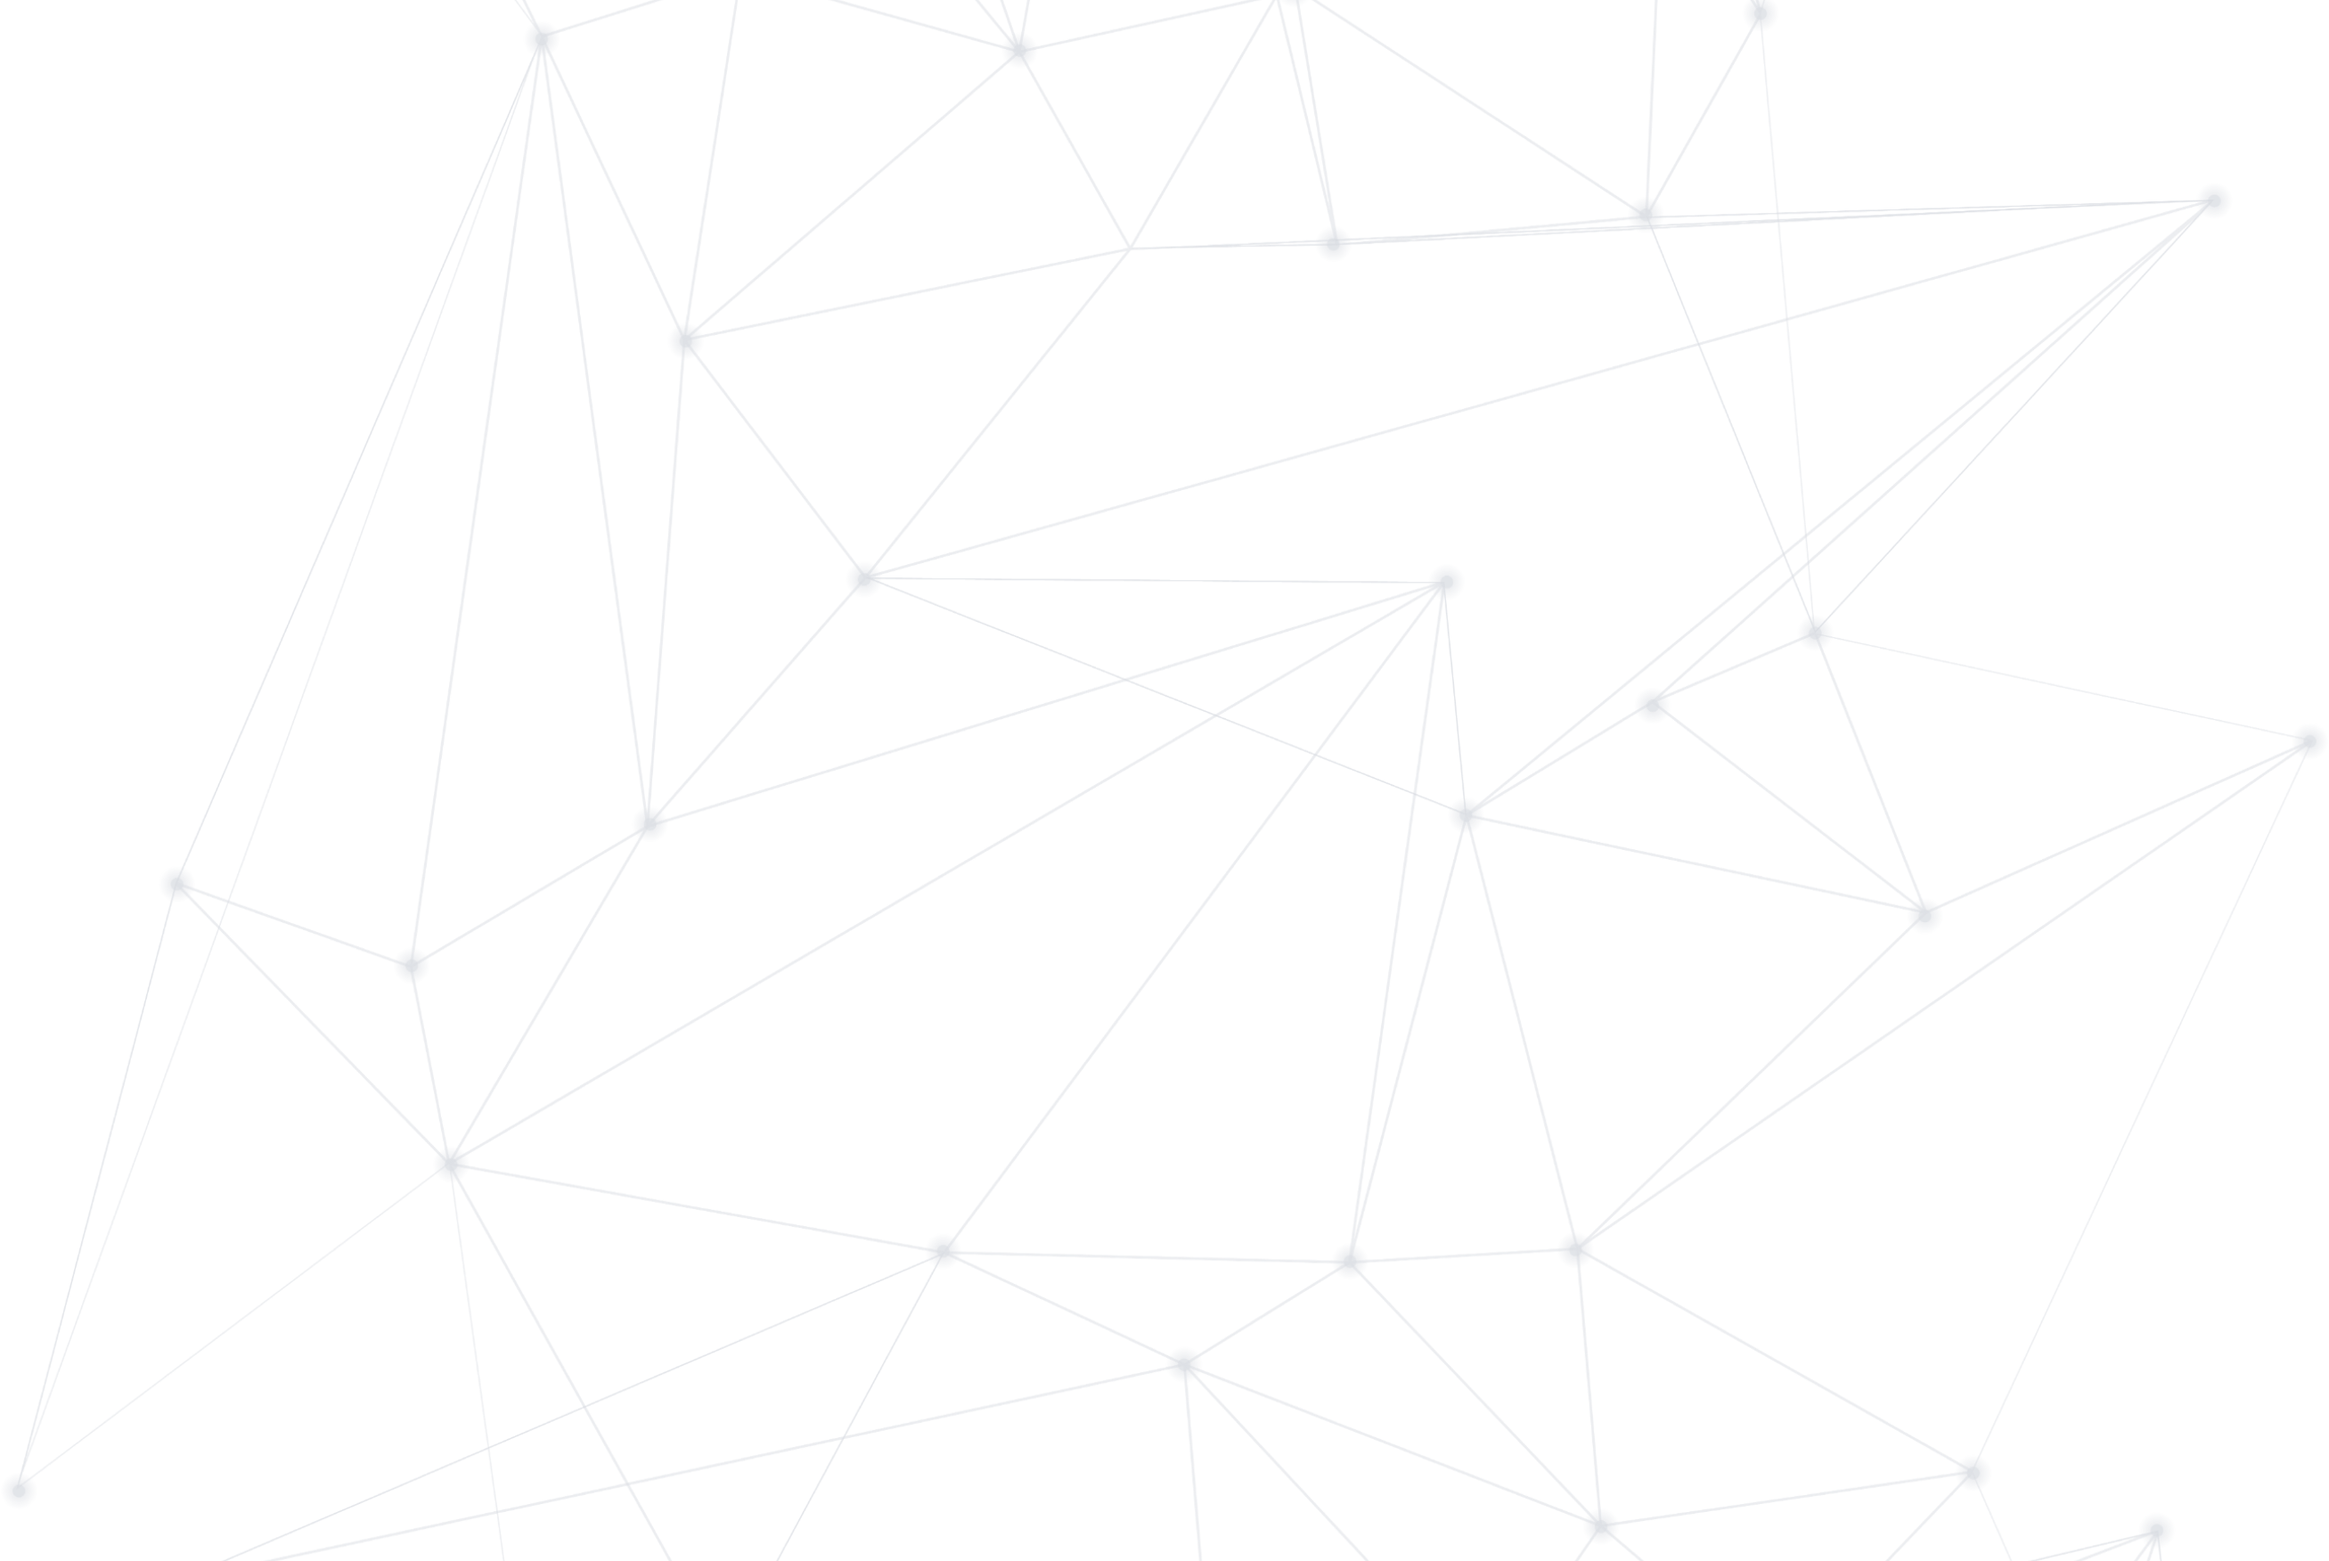
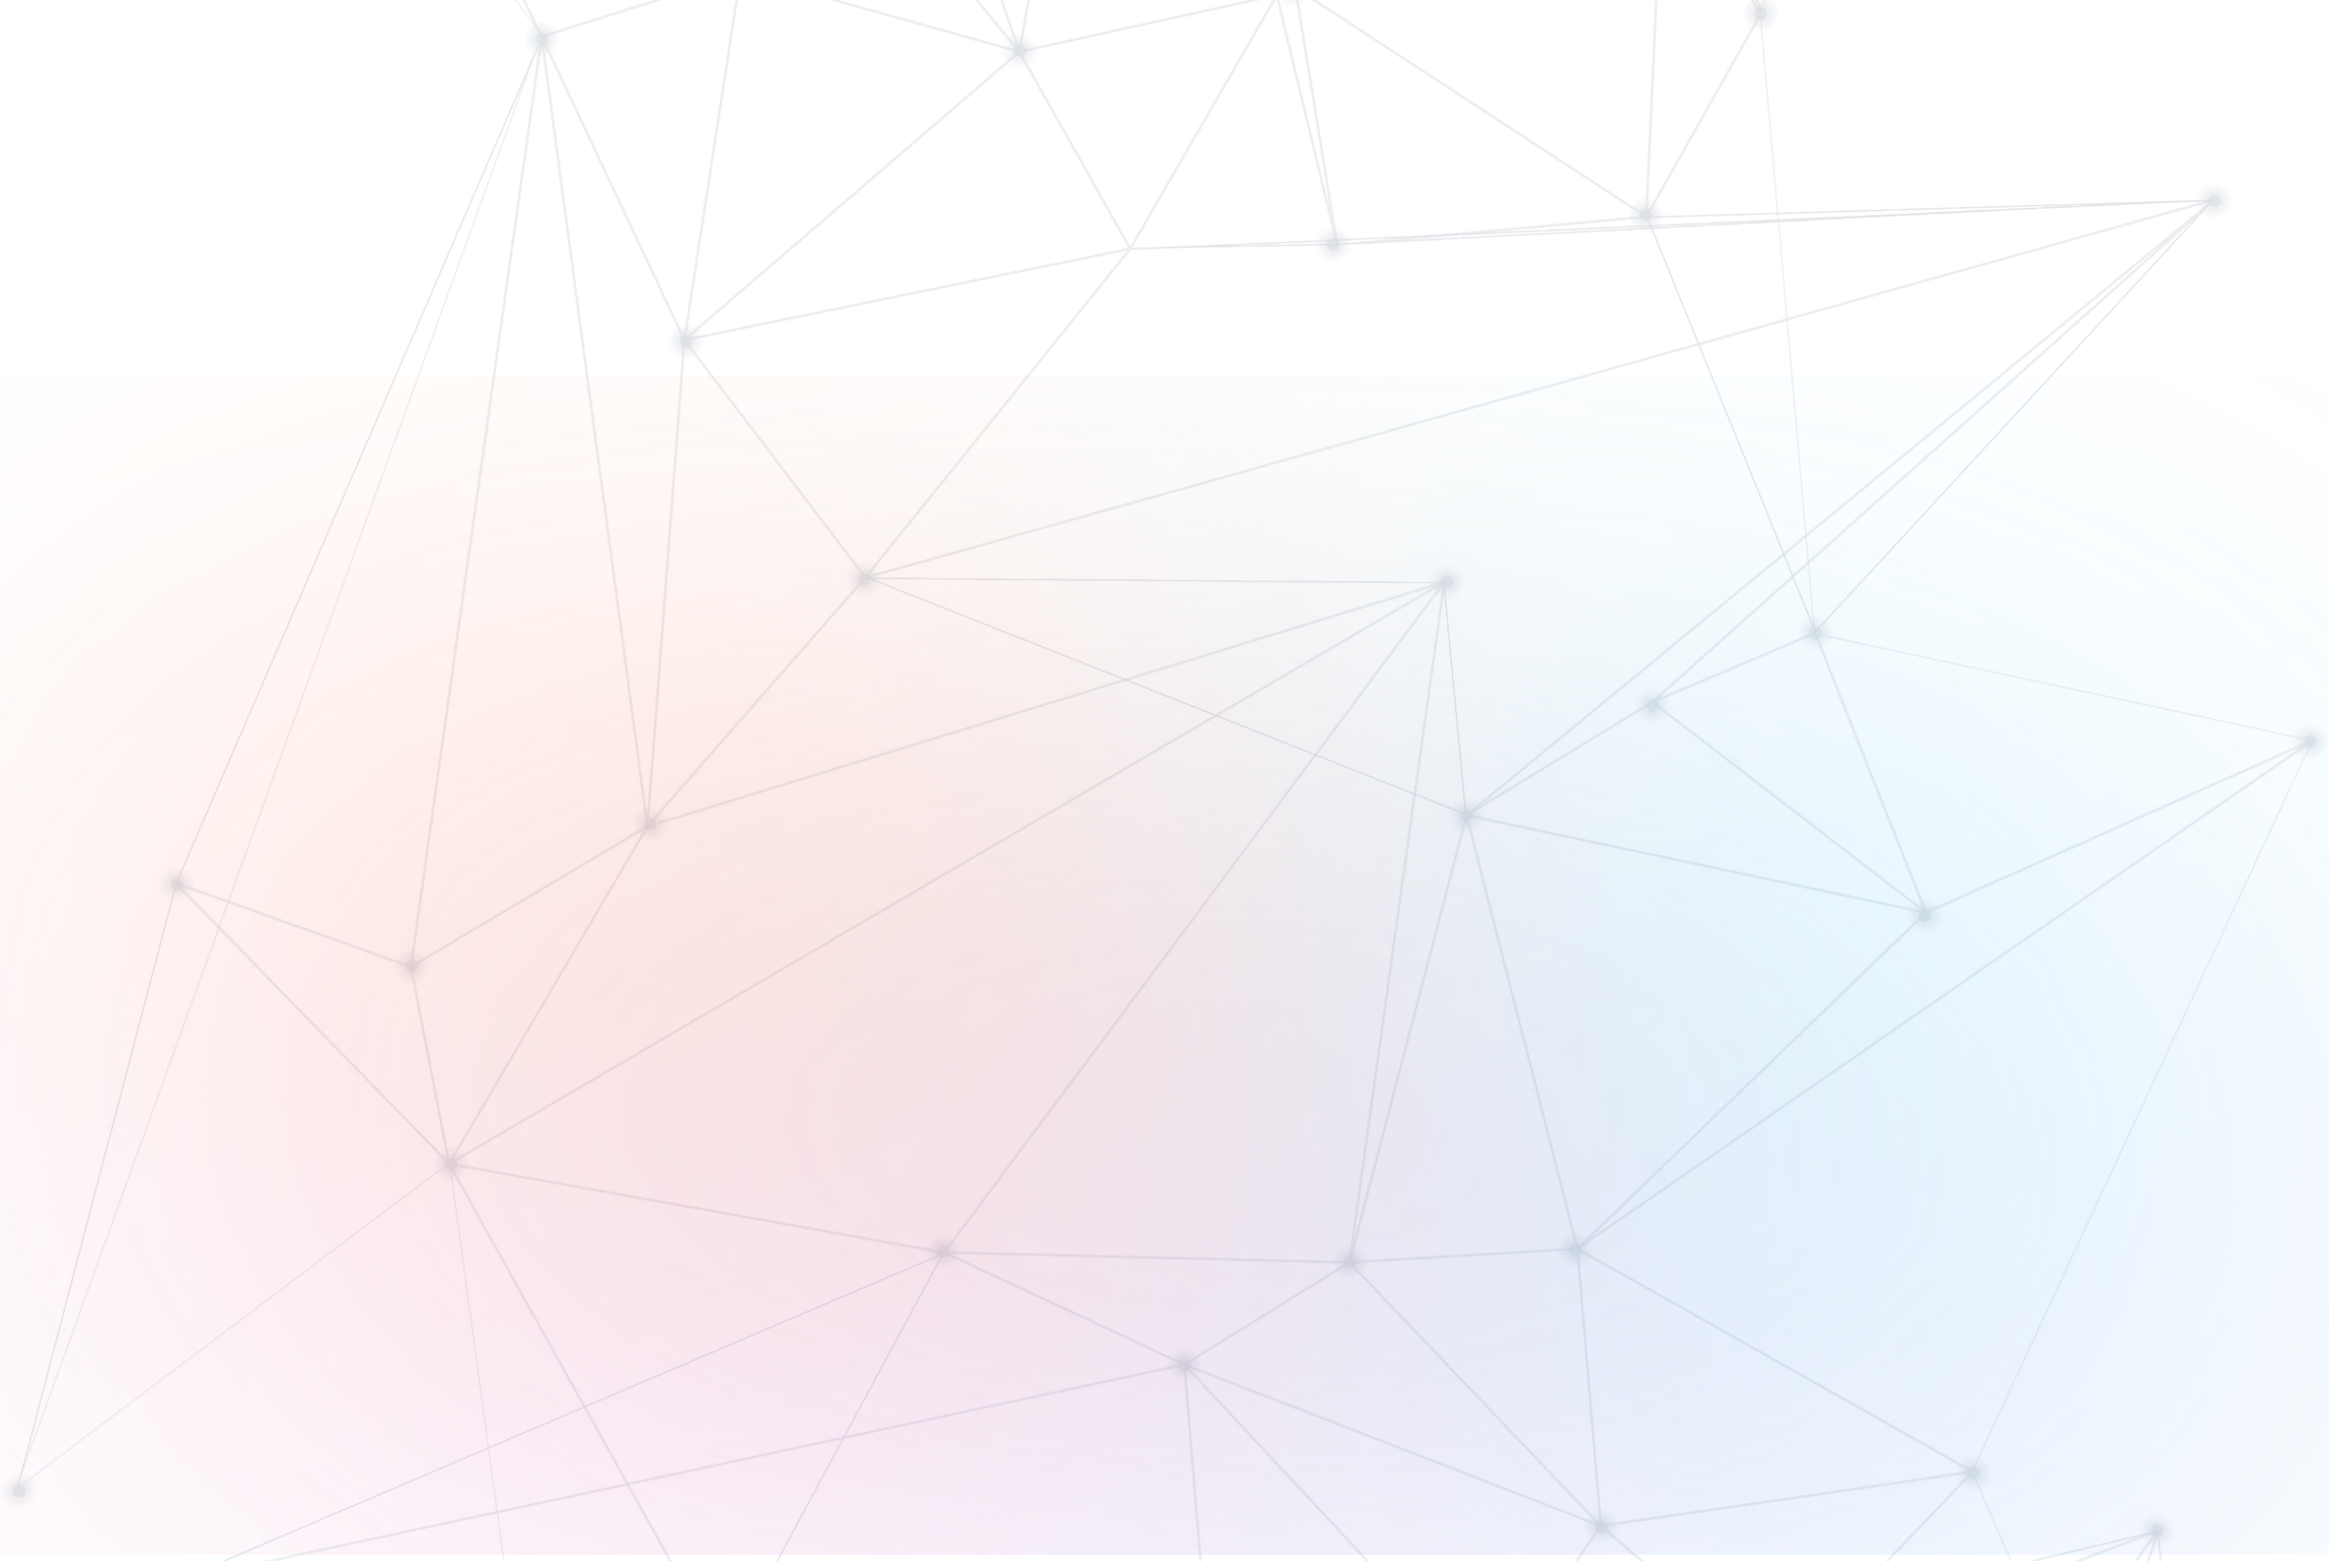
faq页光晕、滑动更新；社区页更新

Changed region(s): [[0.1859, 0.4932, 0.5888, 0.8938], [0.6197, 0.5548, 0.8676, 0.8938]]

diff --git a/pages/faq.js b/pages/faq.js
@@ -22,12 +22,10 @@ export default class Faq extends React.Component {
         <div className="container">
            <Header></Header>
             <div className="content">
-                <div className='content-fq'>
-                    <div className='coon-1204'>
+                <div className='content-fq w-1200'>
+                    <div className='list-content'>
                         <ul className='ul'>
-                            <li>
-                                <div className='gap'></div>
-                            </li>
+                            <li></li>
                             <li>
                                 <div className='flex-c flex-j'>
                                     <div className='jt flex-c flex-j'>
@@ -83,18 +81,21 @@ export default class Faq extends React.Component {
                         </ul>
                     </div>
                 </div>
-                <div className='content-bg'></div>
-                <div className="foot">
-                    <div className='coon-1204 flex-b'>
-                        <div>Made by Inferer Labs</div>
-                        <div>Thanks to Platon</div>
-                    </div>
+            </div>
+            <div className="foot">
+                <div className='w-1200 flex-b'>
+                    <div className='pl-40'>Made by Inferer Labs</div>
+                    <div>Thanks to Platon</div>
                 </div>
-
             </div>
             <style jsx>{`
             .flex-s {
                 display: flex;
+            }
+            .w-1200{
+                width:1200px;
+                margin: 0 auto;
+
             }
             .flex-b {
                 display: flex;
@@ -158,35 +159,22 @@ export default class Faq extends React.Component {
             
               }
               .content{
-                padding-top:152px;
                 width: 100%;
                 background: url(/bg-center.png) repeat;
                 background-size: 100%;
+                height: calc(100vh - 66px);;
+                overflow-y: auto;
             }
-
-            .gap {
-                background-color: transparent; 
-                width: 1204px;
-                height: 80px;
-              }
-
-            .coon-1204{
+            .list-content{
                 position: relative;
-                width: 1204px;
-                height: 100%;
-                margin: 0 auto;
+                
+                
             }
-            // .content-fq{
-            //     width: 100%;
-            //     height: 972px;
-            //     background: url(/content-yun.png) no-repeat;
-            //     background-size: 100%;
-            // }
             .content-fq{
-                width: 100%;
-                height: 100%;
-                background: url(/content-yun.png) no-repeat;
-                background-size: 100%;
+                // width: 100%;
+                // height: 972px;
+                // background: url(/content-bg-gy.jpg) no-repeat;
+                // background-size: 100%;
             }
             .jt{
                 width: 320px;
@@ -202,8 +190,8 @@ export default class Faq extends React.Component {
                 background-size: 100%;
             }
             .list{
-                margin-top: 24px;
-                padding: 22px 27px;
+                margin-top: 22px;
+                padding: 25px 17px;
                 background: #25243A;
                 box-shadow: 0px 0px 6px rgba(17, 14, 45, 0.5);
                 border-radius: 10px;
@@ -219,7 +207,6 @@ export default class Faq extends React.Component {
             }
             .item2{
                 margin-top:12px;
-                margin-left:1.5em;
                 font-family: 'DIN';
                 font-style: normal;
                 font-weight: 700;
@@ -227,7 +214,6 @@ export default class Faq extends React.Component {
                 line-height: 21px;
                 letter-spacing: 0.02em;
                 color: #DADADA;
-                text-indent:-1.4em;
             }
             .content-bg{
                 width: 100%;
@@ -235,8 +221,9 @@ export default class Faq extends React.Component {
                 background: url(/conten-foot.png) no-repeat;
                 background-size: 100%;
             }
-
             .foot{
+                position: relative;
+                width:100%;
                 background: #17152A;
                 height: 66px;
                 line-height: 66px;
@@ -245,6 +232,9 @@ export default class Faq extends React.Component {
                 font-weight: 500;
                 font-size: 18px;
                 color: #ffffff;
+            }
+            .pl-40{
+                padding-left:40px
             }
             `}</style>
             <style global jsx>{`

diff --git a/pages/community.js b/pages/community.js
@@ -31,7 +31,6 @@ export default class Community extends React.Component {
                         </div>
                     </div>
                     <div className='community-2 '>
-                    <div className='right-bg'></div>
                     <div className='coon-1204 flex-b'>
                     <div className='left flex-l'>
                         <span className='community-2-name'>Owned by the community</span>
@@ -44,12 +43,15 @@ export default class Community extends React.Component {
                         process, which improves inferer all the time.
                         </span>
                     </div>
-                            <div className='right'></div>
+                            <div className='right'>
+                                <img className='right-img' src='/community-right.png' />
+                                <div className='right-bg'></div>
+                            </div>
                     </div>
                         </div>
                         <div className='community-3'>
-                            <div className='community-3-bg'></div>
                             <div className='coon-1204'>
+                                <div className='community-3-bg'></div>
                                 <div className='community-join flex-l flex-j'>
                                     <div className='community-title flex-l'>
                                         <span className='title-m'>Join the community</span>
@@ -77,8 +79,8 @@ export default class Community extends React.Component {
                                         </ul>
                                     </div>
                                     <div className='community-input flex-b'>
-                                        <input className='input' placeholder='Your e-mail'></input>
-                                        <bottom className='submit'>Subscribe</bottom>
+                                        <input type="text" className='input' placeholder='Your e-mail'></input>
+                                        <div className='submit'>Subscribe</div>
                                     </div>
                                 </div>
                             </div>
@@ -163,7 +165,7 @@ export default class Community extends React.Component {
                 padding-bottom:205px;
             }
             .community-1{
-                padding: 160px 0 85px 0;
+                padding: 100px 0 115px 0;
             }
             .name{
                 font-family: 'DIN';
@@ -186,7 +188,6 @@ export default class Community extends React.Component {
                 color: #FFFFFF;
             }
             .community-2{
-                position: relative;
                 background: #0D0C1E;
                 padding: 74px 0 83px 0;
             }
@@ -218,17 +219,20 @@ export default class Community extends React.Component {
                 margin-top: 30px
             }
             .right{
+                position: relative;
+            }
+            .right-img{
+                position: relative;
+                z-index: 1;
                 width: 397px;
                 height: 397px;
-                background: url(/community-right.png) no-repeat;
-                background-size: 100%;
             }
             .right-bg{
                 position: absolute;
                 width: 674px;
                 height: 678px;
-                top:-80px;
-                right:-52px;
+                top: -120px;
+                right: -110px;
                 background: url(/qiu-bg.png) no-repeat;
                 background-size: 100%;
             }
@@ -239,14 +243,16 @@ export default class Community extends React.Component {
             }
             .community-3-bg{
                 position: absolute;
-                top:-232px;
-                left:0px;
+                top: -232px;
+                left: -172px;
                 width: 1581px;
                 height: 1148px;
                 background: url(/community-foot.png) no-repeat center;
                 background-size: 100%;
             }
             .community-join{
+                position: relative;
+                z-index:1;
                 padding:89px 194px 120px 194px;
                 background: #0D0C1E;
                 border-radius: 47px;

diff --git a/components/Header.js b/components/Header.js
@@ -3,28 +3,33 @@ import ContactCard from './ContactCard';
 import LaunchAppButton from './LaunchAppButton';
 import Link from "next/link";
 import router from "next/router";
+import React from 'react';
 
-export default function MHeader() {
+export default class Header extends React.Component{
+  constructor() {
+    super();
+    this.state = {type:''};
+}
+ 
+  render(){
     return (
         <div className="nav_bar">
             {/*导航栏*/}
                 <div className="nav_bar_content">
                     <img src="/icon_nav_logo.svg" className="logo"/>
                     <div className="menu_container">
-                        <div className="menu_item">
-                            DOCS
+                        <div className="menu_item" >
+                            DOC
                         </div>
-                        <div className="menu_item">
+                        <div className="menu_item {`${'DOCS' ==this.state.type ? 'active' : ''}`}">
                             WHITEPAPER
                         </div>
-                        <button className="menu_button_item" onClick={()=>{
-                           router.push('/community')
-                        }}>
+                        <button className="menu_button_item" onClick={(e)=>{
+                          this.tabClick('community',e)}}>
                             COMMUNITY
                         </button>
-                        <button className="menu_button_item" onClick={()=>{
-                          router.push('/faq')
-                        }}>
+                        <button className="menu_button_item" onClick={(e)=>{
+                          this.tabClick('faq',e)}}>
                             FAQ
                         </button>
 
@@ -34,6 +39,7 @@ export default function MHeader() {
                         }}/>
                     </div>
                 </div>
+
           
          <style jsx>{`
               .container {
@@ -311,4 +317,13 @@ export default function MHeader() {
             `}</style>
         </div>
     );
+}
+
+tabClick=(val,e)=>{
+  // this.setState({
+  //   type:val
+  // })
+  router.push('/'+val)
+
+}
 }

diff --git a/pages/app.js b/pages/app.js
@@ -36,7 +36,7 @@ export default class Home extends React.Component {
                             }}
                             onChange={this.handleChange()}
                           >
-                          <Option value="Ethereum">Ethereum</Option>
+                          <Option value="">Ethereum</Option>
                           <Option value="Platon">Platon</Option>
                         </Select>
                         <div className="connect_button">
@@ -202,6 +202,7 @@ export default class Home extends React.Component {
                   }
                   
                   .search_result {
+                    width: 924px;
                     display: none;
                   }
 

diff --git a/pages/index.js b/pages/index.js
@@ -39,7 +39,7 @@ export default function Home() {
 
             {/*page 1*/}
             <div className="subpage_1">
-                <img src="/home_curve.png" style={{marginTop: '0px'}}></img>
+                <img src="/home_curve.png" style={{marginTop: '117px'}}></img>
                 <div className="subpage_1_title_wrapper">
                     <img src="/subpage_1_title_bg.png" style={{
                         width: '988px',
